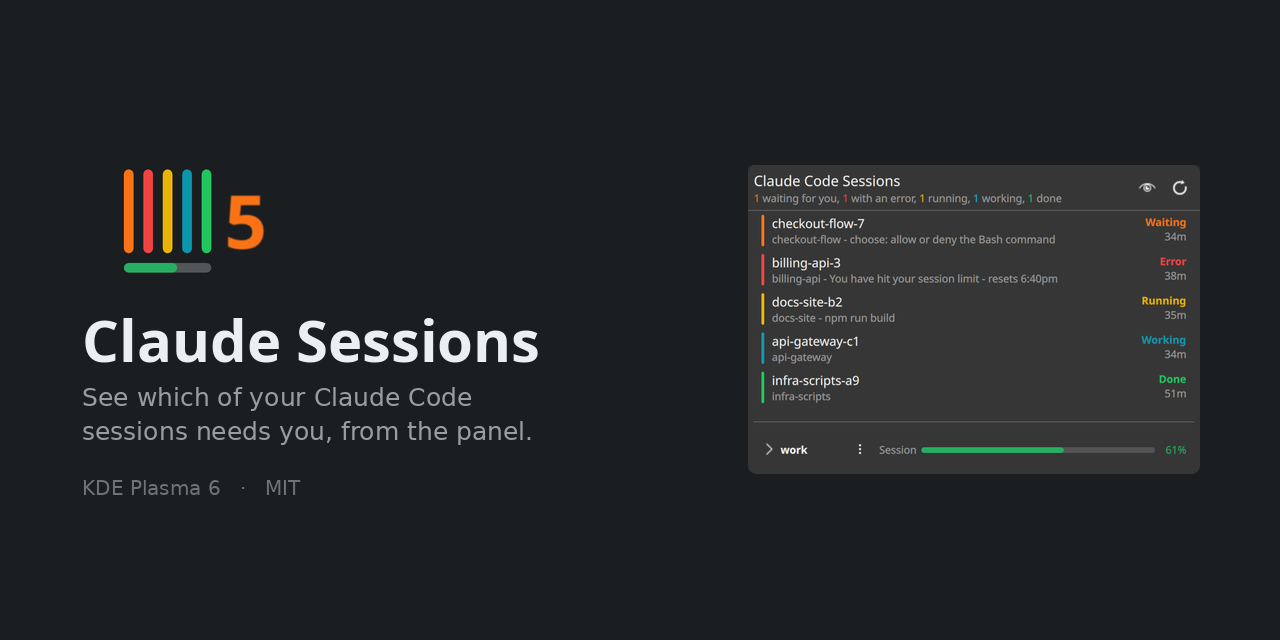
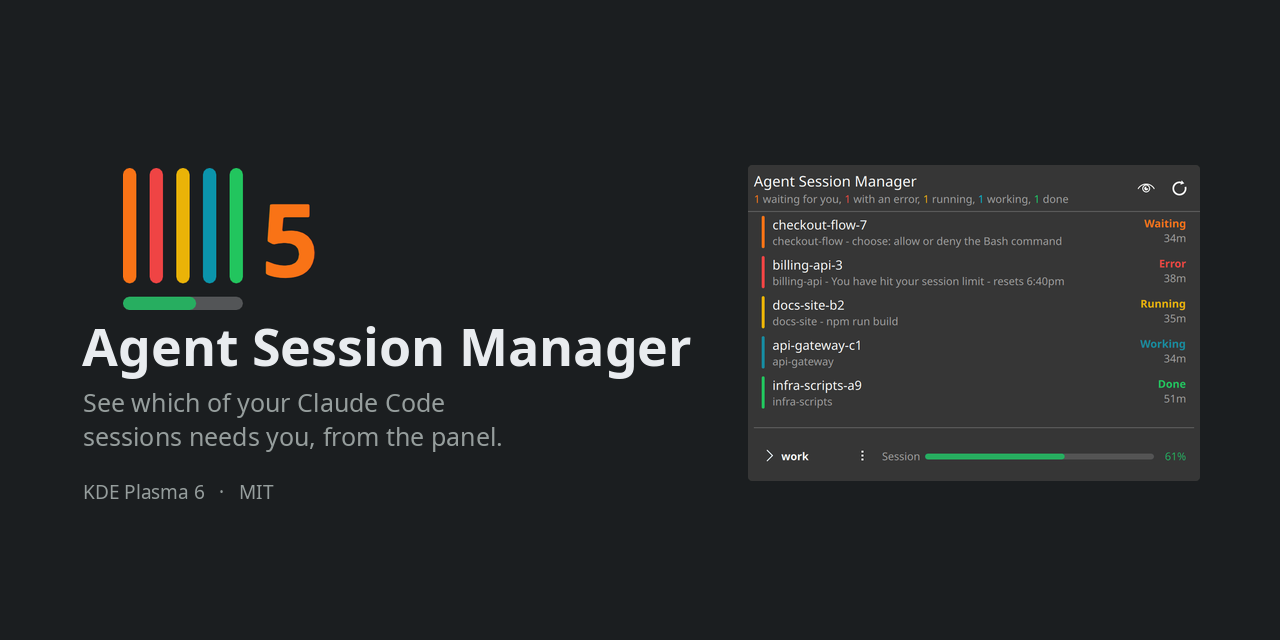
Rebuild the social card, and script it this time
It still said "Claude Sessions" in 52-point type, which is the first thing
anyone sees when the repository is linked anywhere - and it was the one image
the rig admitted it could not remake.

Now it can. build-preview.py lays out the card from two images the rig already
produces, so the only thing done by hand is the layout itself, measured off the
card that was signed off so a rebuild lands where the old one did.

The widget on it is captured fresh at 61% rather than read from panel.png. The
committed panel shot is deliberately at 93% so the README can show the bar red,
and a red bar next to a popup reading 61% reads as a mistake rather than as a
different moment - so the percentage is a knob now, and the card sets it.

diff --git a/tools/screenshots/harness/Stage.qml b/tools/screenshots/harness/Stage.qml
@@ -538,7 +538,7 @@ Item {
         if (scenario === "panel") {
             // The panel bar in a state the popup shots never show, so the
             // "colours by how much is gone" setting is visible in the README.
-            s.push([function () { stage.widget.demoWorkPercent = 93 }, 800])
+            s.push([function () { stage.widget.demoWorkPercent = Demo.PANEL_PERCENT }, 800])
             s.push([function () { shot(panelHost, "panel") }, 700])
         } else if (scenario === "demo") {
             buildDemoScript(s)

diff --git a/tools/screenshots/build-preview.py b/tools/screenshots/build-preview.py
@@ -1,0 +1,108 @@
+#!/usr/bin/env python3
+"""Composite docs/screenshots/preview.png, the repository's social card.
+
+GitHub shows this whenever the repository is linked anywhere, so it is the one
+image most people see before they see the README.
+
+The popup comes from the first frame of the demo recording, and the widget is
+captured fresh at the same usage percentage - the committed panel.png is
+deliberately at 93% so the README can show the bar red, and a red bar next to a
+popup reading 61% looks like a mistake rather than a different moment.
+
+Run it after retaking the screenshots. Needs a display, because it captures.
+
+Usage: build-preview.py
+"""
+import os
+import pathlib
+import subprocess
+import sys
+
+from PIL import Image, ImageDraw, ImageFont, ImageSequence
+
+REPO = pathlib.Path(__file__).resolve().parent.parent.parent
+SHOTS = REPO / "docs/screenshots"
+
+W, H = 1280, 640
+BG = (27, 30, 32)
+TEXT = (233, 236, 239)
+DIM = (150, 158, 157)
+
+# Measured off the card that was signed off, so a rebuild lands where the old
+# one did rather than drifting a little each time.
+WIDGET_TOP, WIDGET_LEFT = 168, 123
+TITLE_Y, TITLE_X = 310, 82
+TAGLINE_Y = 385
+FOOTER_Y = 478
+POPUP_X, POPUP_Y, POPUP_W = 748, 165, 452
+
+TITLE = "Agent Session Manager"
+TAGLINE = ["See which of your Claude Code", "sessions needs you, from the panel."]
+FOOTER = "KDE Plasma 6   ·   MIT"
+
+
+def font(name, size):
+    path = subprocess.run(["fc-match", "-f", "%{file}", name],
+                          capture_output=True, text=True).stdout.strip()
+    if not path:
+        sys.exit(f"no font for {name}")
+    return ImageFont.truetype(path, size)
+
+
+def ink_box(im, bg, tol=18):
+    """The bounding box of everything that is not the background."""
+    px = im.convert("RGB")
+    w, h = px.size
+    def ink(x, y):
+        p = px.getpixel((x, y))
+        return abs(p[0]-bg[0]) + abs(p[1]-bg[1]) + abs(p[2]-bg[2]) > tol
+    cols = [x for x in range(w) if any(ink(x, y) for y in range(h))]
+    rows = [y for y in range(h) if any(ink(x, y) for x in range(w))]
+    return (cols[0], rows[0], cols[-1] + 1, rows[-1] + 1)
+
+
+def main():
+    card = Image.new("RGB", (W, H), BG)
+    draw = ImageDraw.Draw(card)
+
+    # Captured rather than read off disk, at the percentage the popup shows.
+    here = pathlib.Path(__file__).resolve().parent
+    home = os.environ.get("RIG_HOME", str(here / "home"))
+    subprocess.run([str(here / "capture.sh"), "panel", "50", "9"],
+                   env={**os.environ, "RIG_HOME": home, "PANEL_PERCENT": "61"},
+                   check=True, capture_output=True)
+
+    # Cropped to its ink so the layout does not depend on how much air the
+    # panel shot happens to carry.
+    panel = Image.open(pathlib.Path(home) / "frames/panel.png").convert("RGB")
+    panel = panel.crop(ink_box(panel, BG))
+    scale = 142 / panel.height
+    panel = panel.resize((round(panel.width * scale), 142), Image.LANCZOS)
+    card.paste(panel, (WIDGET_LEFT, WIDGET_TOP))
+
+    # The popup, taken from the first frame of the demo recording rather than
+    # from a still of its own - it is the same render, and one fewer asset to
+    # keep in step.
+    frame = next(iter(ImageSequence.Iterator(Image.open(SHOTS / "demo.gif")))).convert("RGB")
+    fw, fh = frame.size
+    def is_card(p): return abs(p[0]-54) + abs(p[1]-54) + abs(p[2]-54) < 30
+    rows = [y for y in range(fh) if is_card(frame.getpixel((fw // 2, y)))]
+    cols = [x for x in range(fw) if is_card(frame.getpixel((x, (rows[0] + rows[-1]) // 2)))]
+    popup = frame.crop((cols[0], rows[0], cols[-1] + 1, rows[-1] + 1))
+    popup = popup.resize((POPUP_W, round(popup.height * POPUP_W / popup.width)), Image.LANCZOS)
+    card.paste(popup, (POPUP_X, POPUP_Y))
+
+    draw.text((TITLE_X, TITLE_Y), TITLE, font=font("Noto Sans:bold", 52), fill=TEXT)
+    tag = font("Noto Sans", 25)
+    for i, line in enumerate(TAGLINE):
+        draw.text((TITLE_X + 1, TAGLINE_Y + i * 34), line, font=tag, fill=DIM)
+    draw.text((TITLE_X + 1, FOOTER_Y), FOOTER, font=font("Noto Sans", 19), fill=DIM)
+
+    out = SHOTS / "preview.png"
+    card.save(out)
+    print(f"{out}  {card.size[0]}x{card.size[1]}  "
+          f"{out.stat().st_size // 1024} KiB")
+
+
+if __name__ == "__main__":
+    main()

diff --git a/tools/screenshots/patch-package.py b/tools/screenshots/patch-package.py
@@ -39,7 +39,7 @@ def patch(path, *pairs):
     path.write_text(text)
 
 
-def main(home, scenario, frame_ms):
+def main(home, scenario, frame_ms, panel_percent=93):
     pkg = pathlib.Path(home) / ".local/share/plasma/plasmoids" / PLUGIN_ID
     if pkg.exists():
         shutil.rmtree(pkg)
@@ -182,9 +182,11 @@ def main(home, scenario, frame_ms):
         f'var SCENARIO = "{scenario}"\n'
         f'var OUT = "/home/dev/frames"\n'
         f'var FRAME_MS = {frame_ms}\n'
-        f'var NOW = {epoch}\n')
+        f'var NOW = {epoch}\n'
+        f'var PANEL_PERCENT = {panel_percent}\n')
     print(f"patched for scenario={scenario} frame_ms={frame_ms}")
 
 
 if __name__ == "__main__":
-    main(sys.argv[1], sys.argv[2], int(sys.argv[3]))
+    main(sys.argv[1], sys.argv[2], int(sys.argv[3]),
+         int(sys.argv[4]) if len(sys.argv) > 4 else 93)

diff --git a/tools/screenshots/README.md b/tools/screenshots/README.md
@@ -104,9 +104,21 @@ been upscaled, which is what made the first batch look soft.
 pointer against named items every frame. Setting the hover by hand a step early
 or late was visible.
 
+## The social card
+
+`preview.png` is a layout rather than a scenario, so it has its own script:
+
+```fish
+tools/screenshots/build-preview.py
+```
+
+It captures the widget fresh at 61% and takes the popup from the first frame of
+`demo.gif`. Both of those matter: the committed `panel.png` is deliberately at
+93% so the README can show the bar red, and a red bar beside a popup reading 61%
+reads as a mistake rather than as a different moment.
+
 ## Not covered here
 
-`logo.png` is a render of `package/contents/icons/…svg`, the chips in
-`docs/screenshots/chips/` are solid swatches of the six status colours, and
-`preview.png` is a composite built from `panel.png` and a popup still. Those are
-one-offs rather than scenarios; rebuild them by hand if they ever need to change.
+`logo.png` is a render of `package/contents/icons/…svg` and the chips in
+`docs/screenshots/chips/` are solid swatches of the six status colours. Both are
+one-offs; rebuild them by hand if they ever need to change.
